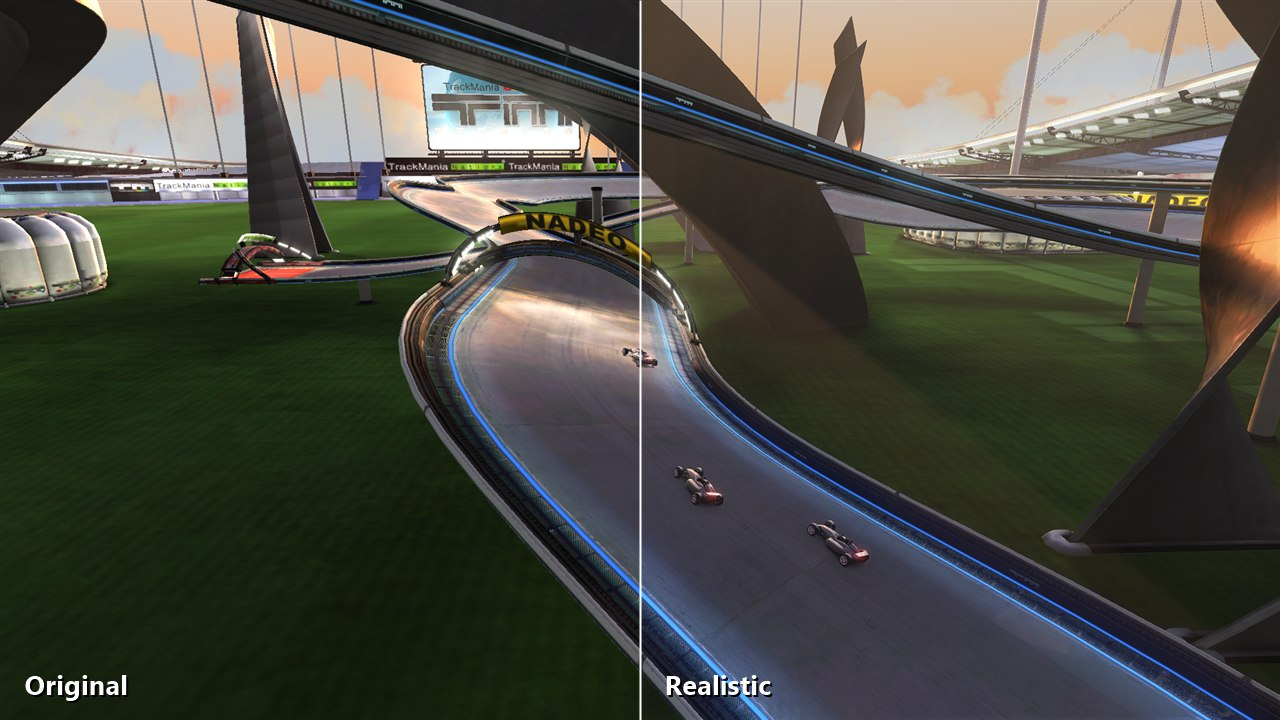
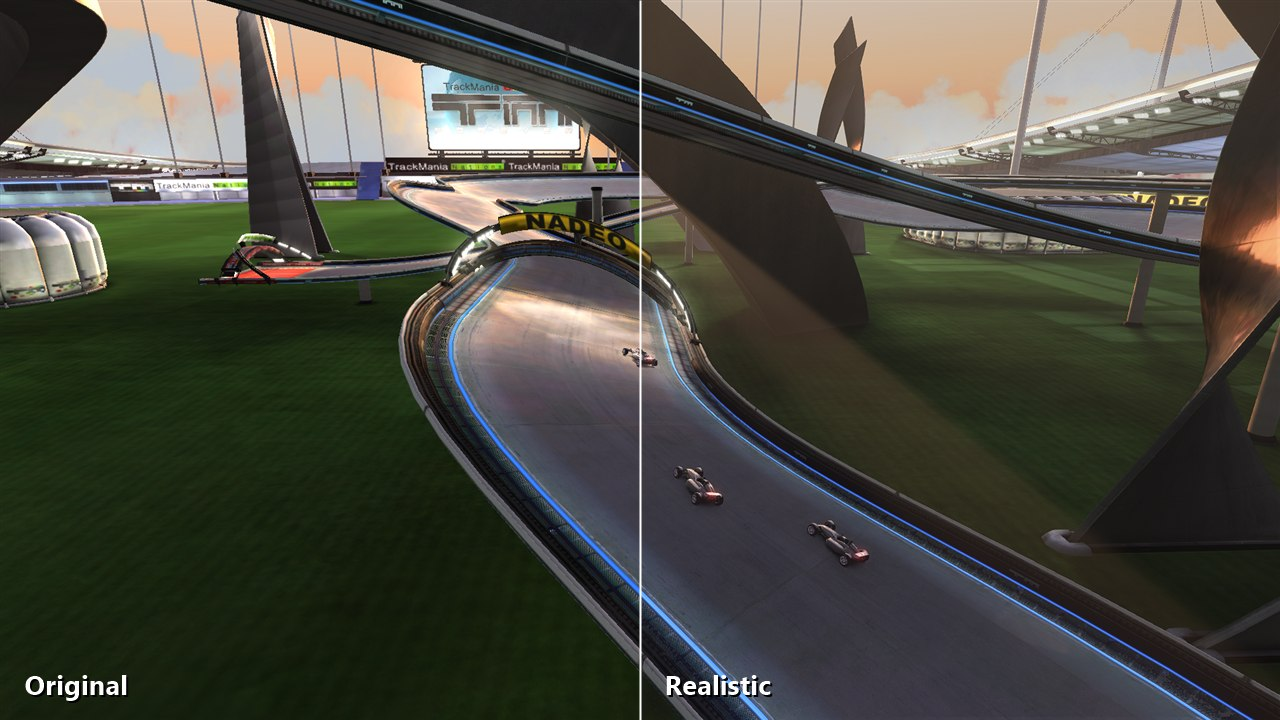
Realistic: the owner's in-game tuning (shadows 1, light shafts 1.55, glow and neon 0.05, brightness -0.23, colour 0.88)

diff --git a/src/config.cpp b/src/config.cpp
@@ -393,29 +393,30 @@ void applyPreset(Settings& s, Preset preset) {
         case Preset::Realistic:
             // TrackMania's own colours and sky, only the light is new: shadows, contact
             // shadows, bounce light and a little haze, in the colour of the game's sun.
-            s.saturation = 1.0f;
+            s.saturation = 0.88f;
             s.vibrance = 0.0f;
             s.temperature = 0.0f;
             s.tint = 0.0f;
             s.shadowTint = 0.0f;
             s.contrast = 1.06f;
+            s.exposure = -0.23f;
             s.gameSunColor = 1.0f;
             s.sunColor[0] = 1.0f; s.sunColor[1] = 0.96f; s.sunColor[2] = 0.9f;
             s.skyColor[0] = 0.66f; s.skyColor[1] = 0.74f; s.skyColor[2] = 0.88f;
             s.sunLight = 0.55f;
             s.ambientTint = 0.45f;
             s.aoStrength = 1.1f;
-            s.shadowStrength = 0.9f;
+            s.shadowStrength = 1.0f;
             s.globalIllumination = 0.7f;
             s.volumetricLight = 0.4f;
             s.skyEnhance = 0.0f;
             s.sunGlow = 0.4f;
             s.fogDensity = 0.2f;
             s.fogSunScatter = 0.5f;
-            s.godRays = 0.7f;
-            s.neonLight = 0.35f;
+            s.godRays = 1.55f;
+            s.neonLight = 0.05f;
             s.highlightBoost = 2.5f;
-            s.bloom = 0.06f;
+            s.bloom = 0.05f;
             s.lensFlare = 0.0f;
             s.chromaticAberration = 0.0f;
             s.vignette = 0.12f;
